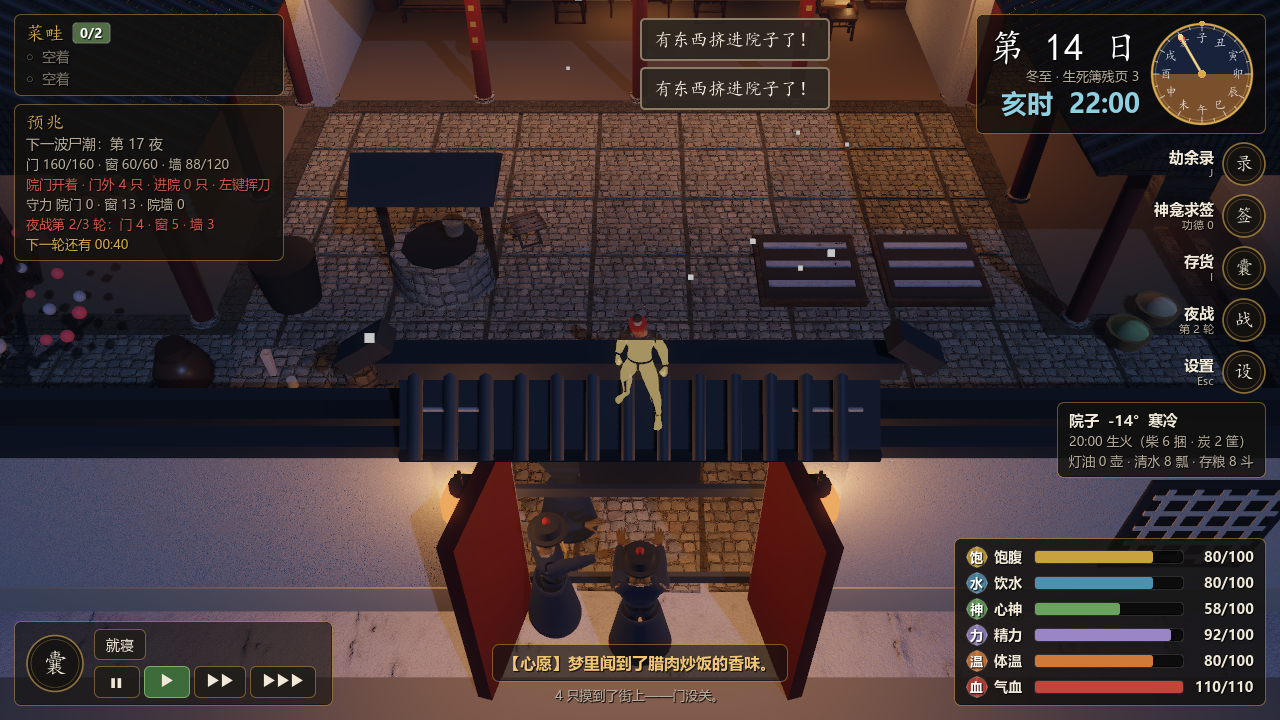
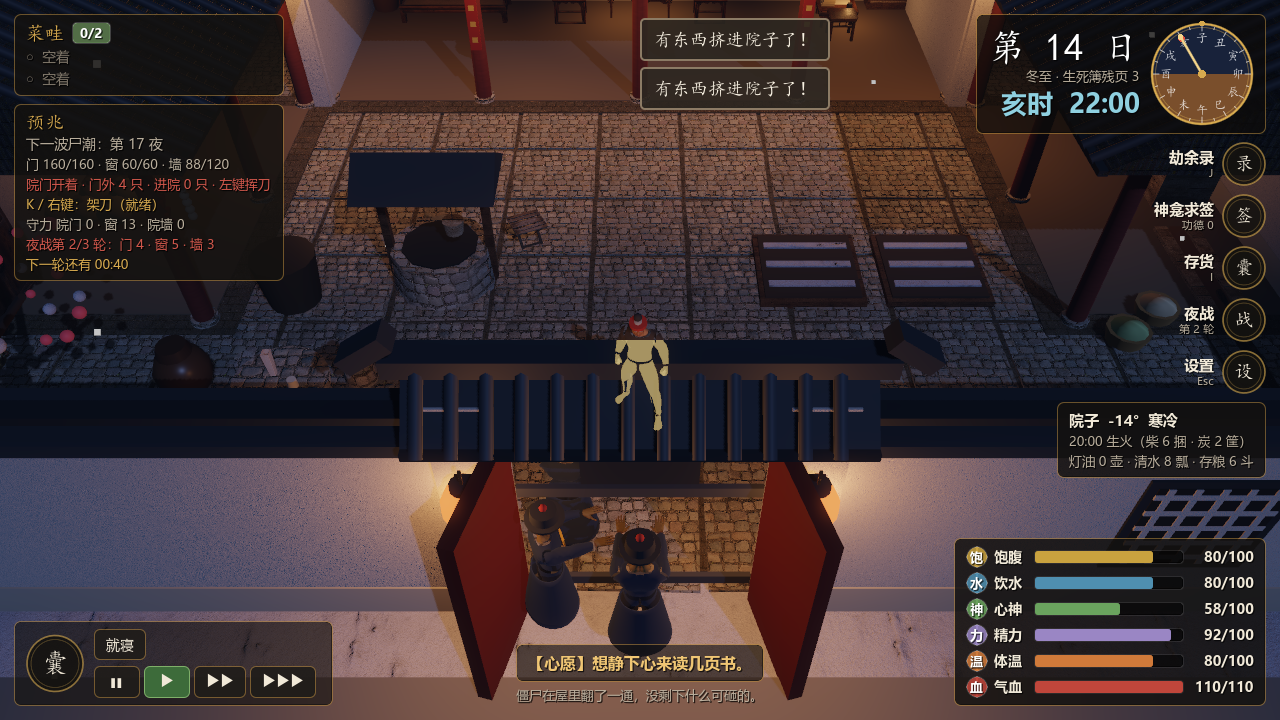
院门战：加架刀格挡，被啃过的地方看得见
格挡（core/night_fight.gd）
- 抬刀后有 0.35 秒窗口，期间咬进来的一口被架住：不掉血、把它推开 1.4 米、趔趄 1 秒
- 收刀 1.15 秒；真架住一次只算 0.6 秒（挡住有回报，才敢去架）
- 一次架刀只挡一口：四五只围上来时只能救自己一回
- finish() 带回 parries，战报写「架住 N 下」

操作（post_screen）
- K 或右键单击（右键拖动仍是转视角，靠位移区分）；parry 播闩子声 + 轻震屏
- HUD 显示「K / 右键：架刀（就绪 / 收刀 x 秒）已架住 N」
- 开关院门补音效：拉开是门轴，闩上是闩子

破坏可见（home_world）
- show_wreck()：原地留 7 块碎屑 + 一片暗渍；灶台/工作台被砸就直接塌掉
- 米袋、柴垛、菜畦在 wreck 后按新存货重画，少了一眼能看出来

测试：sim_test 加 6 条格挡断言（未架住照咬、冷却中抬不起刀、架住不掉血且推开、收刀时间）；ui_smoke 走一遍架刀与碎屑。

Changed region(s): [[0.375, 0.7028, 0.625, 0.9778], [0.0, 0.275, 0.1562, 0.3972], [0.2812, 0.4583, 0.3125, 0.4889]]

diff --git a/docs/06-night-defense-v0.6.md b/docs/06-night-defense-v0.6.md
@@ -86,9 +86,13 @@
 战斗规则：
 
 - 左键 / `J` 挥刀，够得着 **2.2 米**，冷却 0.5 秒；铜甲要两刀，其余一刀。
+- **`K` 或右键单击架刀**：抬起后有 **0.35 秒**的窗口，这期间咬进来的一口被架住——不掉血、僵尸被推开 **1.4 米**并趔趄 **1 秒**。收刀要 **1.15 秒**，但真架住一次只算 **0.6 秒**（挡住有回报，才敢去架）。
+- **一次架刀只挡一口**：四五只同时围上来时，你只能救自己一回。这是"操作"真正的边界。
 - 被咬一口 **5 气血**；尸毒 `4% + 3% × 被咬次数`（上限 50%）。
 - 互相挤开，不会叠成一坨。
 - 一场最多 **45 秒**；清完或时间到就收场。院门口打着的时候**时辰暂停**，免得下一轮叠上来。
+
+被啃的那一下在场景里**看得见**：原地留一堆碎屑 + 一片暗渍，被砸的家具（灶台 / 工作台）直接塌掉不再摆出来；米袋、柴垛、菜畦按新存货量重画，少了一眼就能看出来。
 
 判定在 `scripts/core/night_fight.gd`（不碰 3D，只接收「玩家在哪、门开没开」），所以能在无界面下用固定步长跑完并断言。
 「亲战」方针仍然走即时公式（`Defense.sortie`），不召唤活人——那是「交给它替你打」。
@@ -150,6 +154,8 @@
 - [x] 三轮夜战 + 两个间隙，每间隙只够一件事
 - [x] 四种间隙操作：修缮 / 贴符 / 布守具 / 出门迎战
 - [x] 开门迎敌：不换场景；关门只能挨撞（−2/1.25 秒），开门会放进最多 5 只并啃菜畦 / 米袋 / 柴垛 / 家具；左键挥刀、铜甲两刀
+- [x] 架刀格挡：0.35 秒窗口，架住不掉血、把僵尸推开 1.4 米，收刀 1.15 秒（架成功只算 0.6 秒）；一次只挡一口
+- [x] 破坏看得见：原地留碎屑与暗渍，被砸的家具塌掉，存货按新数量重画
 - [x] 三个方针 + 随时手动接管
 - [x] 旧存档 v1–v3 自动升级到 v4（`migrate.gd`）
 - [x] 界面冒烟覆盖：定方针 → 演出 → 夜战面板 → 开门 / 起战 / 挥刀 / 关门 → 两轮结算 → 战报
@@ -159,7 +165,8 @@
 | 项 | 现状 | 下一步 |
 |---|---|---|
 | 夜战仍是「先算后演」 | 第一轮有 3D 演出，后两轮只出面板和战报 | 第二轮、第三轮各加一段 10 秒的小演出 |
-| 院门战没有格挡 | 有走位、有咬、有冷却，但没有格挡、没有重击 | 加「格挡」（右键）和一次蓄力斩 |
+| 院门战只有一刀一格挡 | 有走位、有咬、有冷却、有架刀，但没有蓄力斩和处决 | 加一次蓄力斩（长按左键，破甲） |
+| 家具砸掉的痕迹不存档 | 场景里藏了，读档后又摆回来（数据上 `run.furniture` 已经没了） | 让 `home_world` 按 `run.furniture` 决定摆什么 |
 | 僵尸不分路行走 | 演出里只分左右两头 | 让僵尸真的绕到窗下、墙根 |
 | 三面的守具不能挪 | 造的时候定死归属 | 允许拆下来重挂（花时间） |
 | 无数值真人验证 | 仅机器人 | 找 3 人各玩一局，记录死因 |

diff --git a/docs/02-chinese-style-design.md b/docs/02-chinese-style-design.md
@@ -72,6 +72,7 @@
 - **寒冷（v0.5 重做）**：节气寒气 10 / 20 / 30 / 25。白天靠日头回暖到 60（有地窖 75），夜里只有生火才暖得起来：1 筐炭或 2 捆柴管一夜（+2/小时，上限 100），只有 1 捆柴时只烧半夜（+1/小时，上限 70）。体温 <30 每小时气血 −0.7，<15 每小时 −1.4 且守力 ×0.85。连续不取暖：第 2 夜开始掉血，第 3 夜起每晚固定 −16.8。
 - **尸潮日程（v0.6 拆成三轮）**：第 2、5、8、11、14、17、20 夜，分别来 8、14、18（尸海 ×1.5）、24（铜甲）、34（夹击 + 月黑）、46（铜甲）、58（血月 ×1.2 → 实际 70）只。每夜分三轮（22:00 / 22:40 / 23:20，40% / 35% / 25%），每轮再按 门 50% / 窗 25% / 墙 25% 分三路（夹击时 门 30% / 窗 45% / 墙 25%）。提前一天有预兆（有望楼提前两天）。
 - **夜战玩法（v0.6）**：21:00 定方针——稳守（自动修）/ 亲战（自动出门）/ 亲自调度；轮间只能做一件事：修缮 / 贴符 / 布守具 / 出门迎战。详见 `docs/06-night-defense-v0.6.md`。
+- **院门攻防（v0.6.1）**：不换场景，就在自家门口打。关门只能挨撞，开门会放最多 5 只进院啃菜畦 / 米袋 / 柴垛 / 家具——**开门 = 用院子里的东西换门的耐久**。左键挥刀、`K`（或右键单击）架刀：0.35 秒窗口挡住一口，把它推开 1.4 米；一次只挡一口。被啃过的院子会留碎屑，砸掉的家具直接塌在当场。
 - **防守公式**：三面独立。每面守力 = 该面守具 + 望楼 2 + 夜行 2 + 六丁六甲 4 + 阿黄 3（只守门）+ 贴在该面的符咒 + 亲守该面时的自身武力 ×（0.5 + 精力/200）。体温 <15 再 ×0.85；点灯 ×1.1；月黑无灯 ×0.7。
   每只僵尸耗守力 1（铜甲 ×1.6，血月 ×1.3）。挡不住的每只扣该面耐久 `5 + floor((日−1)/4)`（第 2 夜 5，第 20 夜 9）；该面低于 25% 时有四分之一挤进来，破了有一半进来，此后每轮来敌全进院子，每只扣 5 气血，并可能染上尸毒。
 - **功过格**：存活 +5；心神超过 50 的部分每 10 点 +1；心愿 +2；当夜斩尸每 5 只 +1；行善积德按事件计；存量利息 5%（最少 1、最多 10）。
